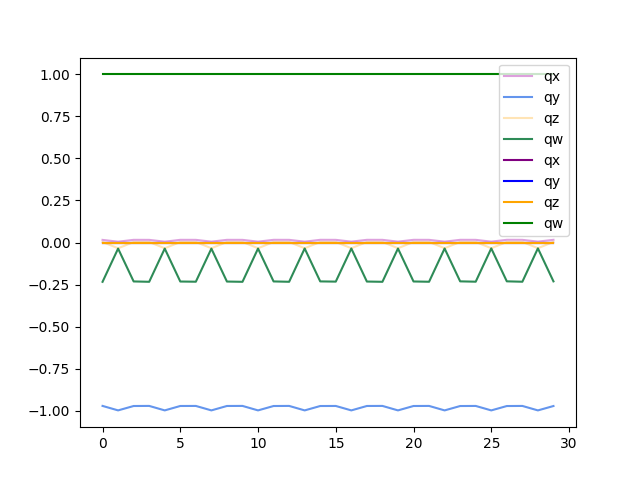
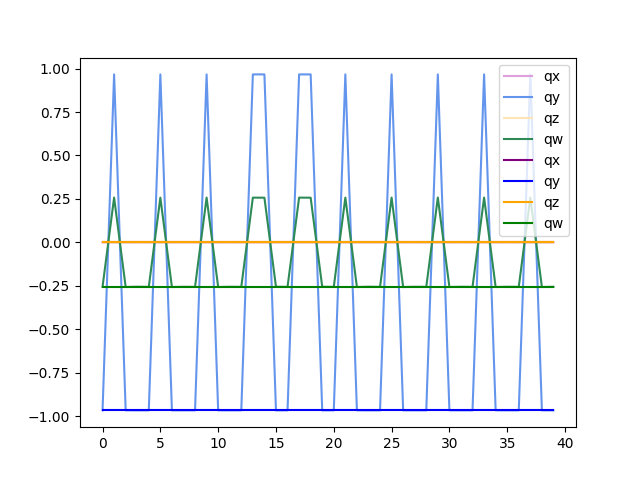
quaternion updated

diff --git a/examples/hd_main_with_planning_quaternions.py b/examples/hd_main_with_planning_quaternions.py
@@ -57,16 +57,18 @@ print(task_env.get_name())
 
 task_env.reset()
 obs_init = task_env.get_observation().get_low_dim_data()
+print(obs_init)
 
-
-quat = np.random.rand(4)
+#quat = np.random.rand(4)
+quat = np.array(obs_init[3:])
 quat_norm = quat / np.linalg.norm(quat)
-#quat_norm = np.array([0,0,0,1])
+
 
 action_list = []
 action_list.append(np.array([0.3,-0.1,1.2,quat_norm[0],quat_norm[1],quat_norm[2],quat_norm[3],1])) # start
 action_list.append(np.array([0.1,-0.1,1.2,quat_norm[0],quat_norm[1],quat_norm[2],quat_norm[3],1])) #
-action_list.append(np.array([0.3,-0.1,1.2,quat_norm[0],quat_norm[1],quat_norm[2],quat_norm[3],1])) # end = start
+action_list.append(np.array([0.1,-0.1,1.0,quat_norm[0],quat_norm[1],quat_norm[2],quat_norm[3],1])) #
+action_list.append(np.array([0.3,-0.1,1.0,quat_norm[0],quat_norm[1],quat_norm[2],quat_norm[3],1])) # end = start
 
 quat_obs = []
 quat_gt = []
@@ -83,7 +85,7 @@ for _ in range(10):
         # pose = arm_action_mode._pose_in_end_effector_frame(robot = task_env._robot, action = action[:7])
 
         print("x,y,z",observation.get_low_dim_data()[:3])
-        print("quat",observation.get_low_dim_data()[3:])
+        print("quat",np.round(observation.get_low_dim_data()[3:], 2))
 
 
         xyz_obs.append(observation.get_low_dim_data()[:3].copy())
